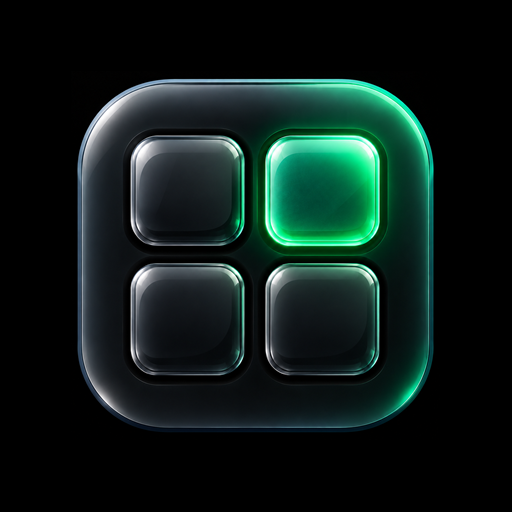
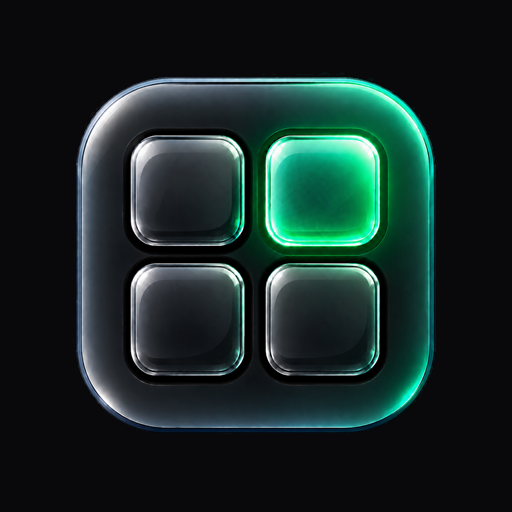
обновление

Changed region(s): [[0.125, 0.125, 0.875, 0.8438], [0.6562, 0.7188, 0.7188, 0.75]]

diff --git a/tests/brand-icons.html b/tests/brand-icons.html
@@ -12,7 +12,8 @@
   .light { background: #fafafa; color: #18181b; }
   .row { display: flex; align-items: center; gap: 24px; flex-wrap: wrap; }
   figure { margin: 0; text-align: center; } figcaption { margin-top: 12px; font-size: 12px; opacity: .7; }
-  .mark { border-radius: 22%; object-fit: contain; }
+  .mark { object-fit: contain; }
+  .brown { background: #291d1b; }
   .round { border-radius: 50%; }
   .squircle { border-radius: 24%; }
   canvas { width: 120px; height: 120px; }
@@ -20,13 +21,14 @@
 </style>
 <main>
   <h1>DAYRIS — новая иконка</h1>
+  <section class="brown"><h2>Окно обновления · PNG без CSS-обрезки</h2><img src="/icon-192.png?v=20260920-transparent-v2" width="96" height="96" alt="PWA update icon"></section>
   <section><h2>В приложении · тёмная тема</h2><div class="row" data-sizes></div></section>
   <section class="light"><h2>В приложении · светлая тема</h2><div class="row" data-sizes></div></section>
   <section><h2>Иконки устройства</h2><div class="row">
-    <figure><img class="round" src="/icon-maskable-192.png?v=20260920-polished" width="120" height="120" alt="Android circle"><figcaption>Android · круг</figcaption></figure>
-    <figure><img class="squircle" src="/icon-maskable-192.png?v=20260920-polished" width="120" height="120" alt="Android rounded square"><figcaption>Android · квадрат</figcaption></figure>
-    <figure><img class="squircle" src="/icon-180.png?v=20260920-polished" width="120" height="120" alt="iPhone"><figcaption>iPhone</figcaption></figure>
-    <figure><img src="/icon-512.png?v=20260920-polished" width="120" height="120" alt="Store"><figcaption>Магазин · 512×512</figcaption></figure>
+    <figure><img class="round" src="/icon-maskable-192.png?v=20260920-transparent-v2" width="120" height="120" alt="Android circle"><figcaption>Android · круг</figcaption></figure>
+    <figure><img class="squircle" src="/icon-maskable-192.png?v=20260920-transparent-v2" width="120" height="120" alt="Android rounded square"><figcaption>Android · квадрат</figcaption></figure>
+    <figure><img class="squircle" src="/icon-180.png?v=20260920-transparent-v2" width="120" height="120" alt="iPhone"><figcaption>iPhone</figcaption></figure>
+    <figure><img src="/assets/brand/dayris-play-store-512.png" width="120" height="120" alt="Store"><figcaption>Магазин · 512×512</figcaption></figure>
   </div></section>
   <section><h2>Экспорт карточек «Поделиться»</h2><div class="row"><canvas id="dark" width="240" height="240"></canvas><canvas id="light" width="240" height="240"></canvas></div><p id="status">Проверка экспорта…</p></section>
 </main>
@@ -37,7 +39,7 @@
     for (const size of [16, 32, 36, 40, 64]) {
       const figure = document.createElement('figure');
       const image = new Image(size, size);
-      image.src = size === 16 ? '/icon-16.png?v=20260920-polished' : APP_ICON;
+      image.src = size === 16 ? '/icon-16.png?v=20260920-transparent-v2' : APP_ICON;
       image.className = 'mark';
       image.alt = `${size}px`;
       const caption = document.createElement('figcaption');

diff --git a/index.html b/index.html
@@ -6,10 +6,10 @@
 
     <!-- PWA Настройки и Иконки -->
     <link rel="manifest" href="/manifest.json" />
-    <link rel="apple-touch-icon" sizes="180x180" href="/icon-180.png?v=20260920-polished" />
-    <link rel="icon" type="image/png" sizes="16x16" href="/icon-16.png?v=20260920-polished" />
-    <link rel="icon" type="image/png" sizes="32x32" href="/icon-32.png?v=20260920-polished" />
-    <link rel="icon" type="image/png" sizes="48x48" href="/icon-48.png?v=20260920-polished" />
+    <link rel="apple-touch-icon" sizes="180x180" href="/icon-180.png?v=20260920-transparent-v2" />
+    <link rel="icon" type="image/png" sizes="16x16" href="/icon-16.png?v=20260920-transparent-v2" />
+    <link rel="icon" type="image/png" sizes="32x32" href="/icon-32.png?v=20260920-transparent-v2" />
+    <link rel="icon" type="image/png" sizes="48x48" href="/icon-48.png?v=20260920-transparent-v2" />
     <meta name="theme-color" content="#09090b" />
     <meta name="mobile-web-app-capable" content="yes" />
     <meta name="apple-mobile-web-app-capable" content="yes" />

diff --git a/public/sw.js b/public/sw.js
@@ -1,17 +1,18 @@
-const CACHE_NAME = 'atj-cache-v6-polished-icon';
+const CACHE_NAME = 'atj-cache-v7-transparent-icon';
 
 const PRECACHE_ASSETS = [
   '/',
   '/index.html',
   '/manifest.json',
-  '/icon-16.png?v=20260920-polished',
-  '/icon-32.png?v=20260920-polished',
-  '/icon-48.png?v=20260920-polished',
-  '/icon-180.png?v=20260920-polished',
-  '/icon-192.png?v=20260920-polished',
-  '/icon-512.png?v=20260920-polished',
-  '/icon-maskable-192.png?v=20260920-polished',
-  '/icon-maskable-512.png?v=20260920-polished'
+  '/brand-mark-192.png?v=20260920-transparent-v2',
+  '/icon-16.png?v=20260920-transparent-v2',
+  '/icon-32.png?v=20260920-transparent-v2',
+  '/icon-48.png?v=20260920-transparent-v2',
+  '/icon-180.png?v=20260920-transparent-v2',
+  '/icon-192.png?v=20260920-transparent-v2',
+  '/icon-512.png?v=20260920-transparent-v2',
+  '/icon-maskable-192.png?v=20260920-transparent-v2',
+  '/icon-maskable-512.png?v=20260920-transparent-v2'
 ];
 
 self.addEventListener('install', (event) => {

diff --git a/src/shared/config/brand.js b/src/shared/config/brand.js
@@ -2,5 +2,5 @@ export const APP_NAME = 'DAYRIS';
 export const APP_TITLE = 'DAYRIS — Денежный календарь';
 export const PRO_PLAN_NAME = 'DAYRIS PRO';
 export const APP_SLOGAN = 'Каждый день имеет значение.';
-export const APP_ICON = '/icon-192.png?v=20260920-polished';
-export const APP_SHARE_ICON = '/icon-512.png?v=20260920-polished';
+export const APP_ICON = '/brand-mark-192.png?v=20260920-transparent-v2';
+export const APP_SHARE_ICON = '/icon-512.png?v=20260920-transparent-v2';

diff --git a/src/shared/ui/BrandIcon.jsx b/src/shared/ui/BrandIcon.jsx
@@ -9,7 +9,7 @@ export default function BrandIcon({ className = '', alt = '' }) {
       width={192}
       height={192}
       draggable={false}
-      className={`shrink-0 rounded-[22%] object-contain ${className}`}
+      className={`shrink-0 object-contain ${className}`}
     />
   );
 }

diff --git a/src/shared/lib/brandIcon.js b/src/shared/lib/brandIcon.js
@@ -28,9 +28,6 @@ export function loadBrandIcon() {
 
 export function drawBrandIcon(ctx, image, x, y, size) {
   ctx.save();
-  ctx.beginPath();
-  ctx.roundRect(x, y, size, size, size * 0.22);
-  ctx.clip();
   ctx.drawImage(image, x, y, size, size);
   ctx.restore();
 }

diff --git a/assets/brand/README.md b/assets/brand/README.md
@@ -2,8 +2,10 @@
 
 `dayris-source.png` is the unchanged, approved 1254 × 1254 source supplied on 2026-09-20.
 
-Run `./scripts/build-icons.ps1` in PowerShell to reproduce the PNG exports. The crop removes excess black margins only; the artwork is not regenerated. UI and favicon exports use the full cropped square. Android maskable exports inset that square to 72% on opaque black so the polished tile survives circular masks. UI and share cards round only the image's outer black corners at 22%.
+`dayris-transparent.png` is the transparent cutout created with the built-in ImageGen tool. Edit prompt: remove only the background outside the rounded-square silhouette, preserve the polished artwork and interior dark surfaces, and output a genuinely transparent PNG with clean edges.
+
+Run `./scripts/build-icons.ps1` in PowerShell to reproduce the PNG exports. Desktop/PWA `any` icons and favicons preserve alpha with balanced 84% artwork framing. `brand-mark-192.png` uses tighter framing for in-app logos. UI and share cards do not clip the actual contour. Apple touch, Android maskable, and store-listing assets are separate opaque exports; Android maskable exports inset the mark to 72% so it survives circular masks.
 
 `dayris-play-store-512.png` is the 512 × 512 store-listing asset. Upload it when preparing the Google Play listing. This repository has no native Android launcher resources; any separately generated Android package must be rebuilt with the updated icons.
 
-The manifest, HTML, UI and service-worker precache reference the same `20260920-polished` revision. Bump that revision and the service-worker cache when replacing the artwork again. Existing Home Screen installations may need OS refresh or reinstallation after deployment.
+The manifest, HTML, UI and service-worker precache reference the same `20260920-transparent-v2` revision. Bump that revision and the service-worker cache when replacing the artwork again. Existing Home Screen installations may need OS refresh or reinstallation after deployment.
